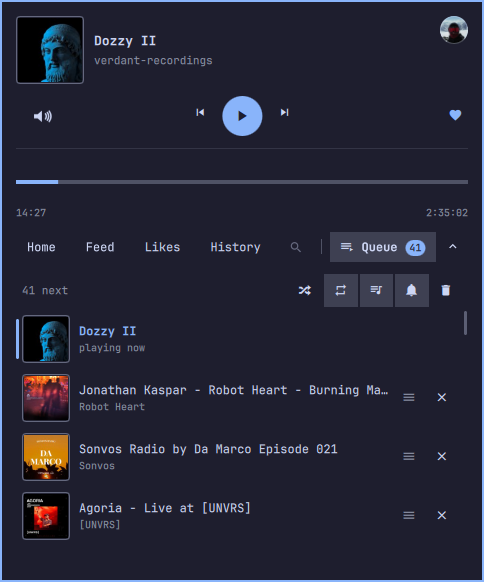
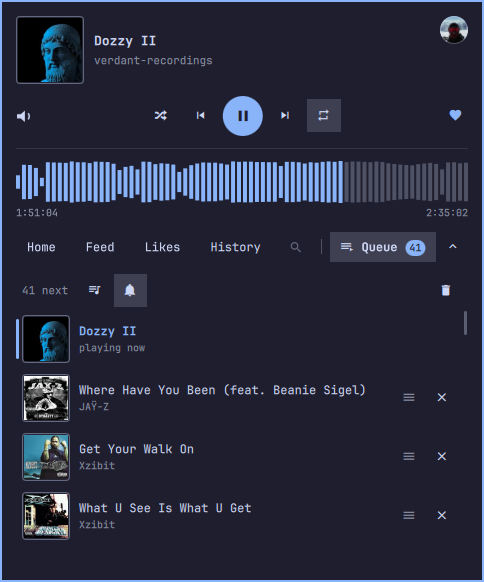
Retake the README screenshots with the waveform loaded
The screenshots were taken before the waveform had loaded and showed the plain
progress bar. Wait for it, and show the Likes tab and the queue. The screenshot
script no longer types a space into the filter text.

diff --git a/README.md b/README.md
@@ -2,7 +2,7 @@
 
 SoundCloud playback and browsing in the Omarchy top bar, without a browser tab and without official SoundCloud API credentials.
 
-![The SoundCloud popup showing the Feed tab](screenshots/popup-feed.png)![The SoundCloud popup with the play queue open](screenshots/popup-queue.png)
+![The SoundCloud popup showing the Likes tab](screenshots/popup-likes.png)![The SoundCloud popup with the play queue open](screenshots/popup-queue.png)
 
 ## Features
 
